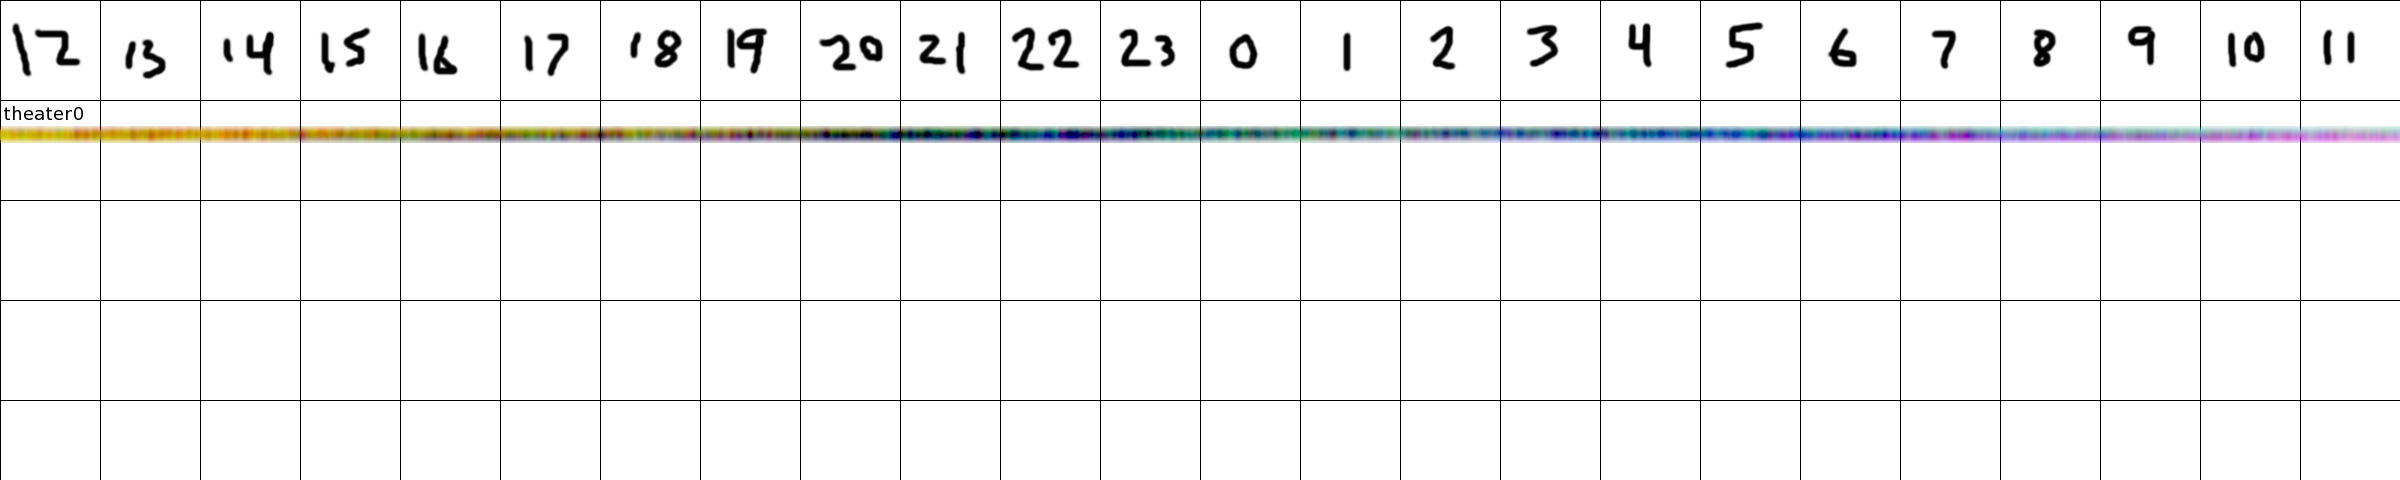
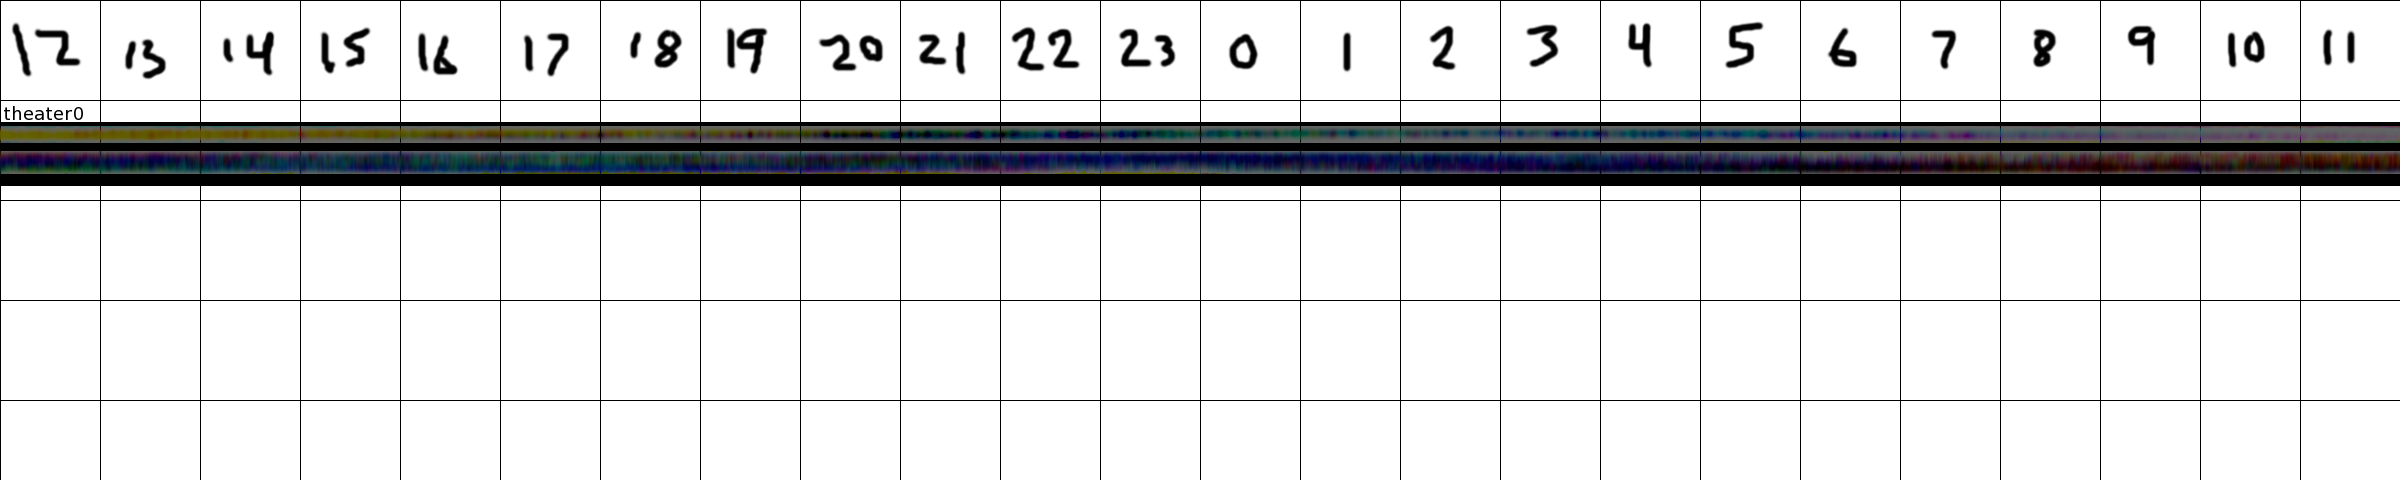
colplay updates, then it was hacked up to do VU meter mode
Ignore-this: 122db2f66f00c0eb505e5c6413c50cc2

darcs-hash:f61d6aee513118c3ebcf6be68ae8b31ae6dc60a7

Changed region(s): [[0.0, 0.25, 1.0, 0.4062]]

diff --git a/service/colplay/colplay.py b/service/colplay/colplay.py
@@ -14,10 +14,27 @@ import cyclone.web
 from dateutil.tz import tzlocal
 from cyclone.httpclient import fetch
 from webcolors import rgb_to_hex
+from influxdb import InfluxDBClient
 
-logging.basicConfig(level=logging.DEBUG)
+influx = InfluxDBClient('bang', 9060, 'root', 'root', 'main')
+
+def currentAudio(location='brace'):
+    t = time.time()
+    row = list(influx.query("""SELECT mean(value) FROM audioLevel WHERE "location" = '%s' AND time > %ds""" % (location, t - 30)))[0][0]
+    log.debug("query took %.03fms", 1000 * (time.time() - t))
+    base = {'brace': .020,
+            'living': .03,
+    }[location]
+    high = {
+        'brace': .1,
+        'living': .3,
+        }[location]
+    return max(0.0, min(1.0, (row['mean'] - base) / high))
+
+
+logging.basicConfig(level=logging.INFO)
 log = logging.getLogger()
-logging.getLogger('restkit.client').setLevel(logging.WARN)
+logging.getLogger('requests.packages.urllib3.connectionpool').setLevel(logging.WARN)
 
 class Img(object):
     def __init__(self, filename):
@@ -37,19 +54,43 @@ class Img(object):
         if os.path.getmtime(self.filename) > self.mtime:
             self.reread()
         return [v * 4 for v in self.img.getpixel((x, y))[:3]]
+
+theaterUrl = 'http://10.1.0.1:9059/output?p=http://projects.bigasterisk.com/room/color&s=http://bigasterisk.com/homeauto/board0/'
         
 lightResource = {
-    'theater0': 'http://bang:9059/output?s=http://bigasterisk.com/homeauto/board0/rgb_right_top_2&p=http://projects.bigasterisk.com/room/color',
+    'theater_left_top_0': theaterUrl + 'rgb_left_top_0',
+    'theater_left_top_1': theaterUrl + 'rgb_left_top_1',
+    'theater_left_top_2': theaterUrl + 'rgb_left_top_2',
+    'theater_right_top_2': theaterUrl + 'rgb_right_top_2',
+    'theater_right_top_1': theaterUrl + 'rgb_right_top_1',
+    'theater_right_top_0': theaterUrl + 'rgb_right_top_0',
+    'theater_left_bottom_0': theaterUrl + 'rgb_left_bottom_0',
+    'theater_left_bottom_1': theaterUrl + 'rgb_left_bottom_1',
+    'theater_left_bottom_2': theaterUrl + 'rgb_left_bottom_2',
+    'theater_right_bottom_2': theaterUrl + 'rgb_right_bottom_2',
+    'theater_right_bottom_1': theaterUrl + 'rgb_right_bottom_1',
+    'theater_right_bottom_0': theaterUrl + 'rgb_right_bottom_0',
     }
 
 lightYPos = {
-    'theater0' : 135,
+    'theater_left_top_0': 130,
+    'theater_left_top_1': 132,
+    'theater_left_top_2': 134,
+    'theater_right_top_2': 135,
+    'theater_right_top_1': 137,
+    'theater_right_top_0': 139,
+    'theater_left_bottom_0': 153,
+    'theater_left_bottom_1': 156,
+    'theater_left_bottom_2': 159,
+    'theater_right_bottom_2': 162,
+    'theater_right_bottom_1': 165,
+    'theater_right_bottom_0': 168,
 }
 
 def hexFromRgb(rgb):
     return rgb_to_hex(tuple([x // 4 for x in rgb])).encode('ascii')
 
-def setColor(lightName, rgb, _req):
+def setColor(lightName, rgb):
     """takes 10-bit r,g,b
 
     returns even if the server is down
@@ -57,33 +98,27 @@ def setColor(lightName, rgb, _req):
     log.debug("setColor(%r,%r)", lightName, rgb)
   
     serv = lightResource[lightName]
-    try:
-        h = hexFromRgb(rgb)
-        log.debug("put %r to %r", h, serv)
-        r = _req(method='PUT', url=serv, body=h,
-             headers={"content-type":"text/plain"})
-        return r
-    except Exception, e:
-        log.warn("Talking to: %r" % serv)
-        log.warn(e)
-        return None
 
-def setColorAsync(lightName, rgb):
-    """
-    uses twisted http, return deferred or sometimes None when there
-    was a warning
-    """
-    def _req(method, url, body, headers):
-        d = fetch(url=url, method=method, postdata=body,
-                  headers=dict((k,[v]) for k,v in headers.items()))
-        @d.addErrback
-        def err(e):
-            log.warn("http client error on %s: %s" % (url, e))
-            raise e
-        return d
-    setColor(lightName, rgb, _req=_req)
+    h = hexFromRgb(rgb)
+    log.debug("put %r to %r", h, serv)
+    t1 = time.time()
+    d = fetch(url=serv, method='PUT', postdata=h,
+              headers={'content-type': ['text/plain']})
+
+    def err(e):
+        log.warn("http client error on %s: %s" % (serv, e))
+        raise e
+    d.addErrback(err)
 
 
+    def done(ret):
+        log.debug('put took %.1fms', 1000 * (time.time() - t1))
+    d.addCallback(done)
+    return d
+
+
+pxPerHour = 100
+    
 class LightState(object):
     def __init__(self):
         self.lastUpdateTime = 0
@@ -101,16 +136,26 @@ class LightState(object):
         try:
             now = datetime.now(tzlocal())
             hr = now.hour + now.minute / 60 + now.second / 3600
-            x = int(((hr - 12) % 24) * 50)
+            x = int(((hr - 12) % 24) * pxPerHour) % 2400
             log.debug("x = %s", x)
 
-            for name, ypos in lightYPos.items():
+            audioLevel = currentAudio('brace')
+            log.debug('level = %s', audioLevel)
+            for i, (name, ypos) in enumerate(sorted(lightYPos.items())):
+
+                if i / len(lightYPos) < audioLevel:
+                    setColor(name, (500, 0, 0))
+                else:
+                    setColor(name, (0, 0, 0))
+                continue
+                
                 if now > self.autosetAfter[name]:
                     c = self.img.getColor(x, ypos)
-                    setColorAsync(name, c)
+                    d = setColor(name, c)
             self.lastUpdateTime = time.time()
         except Exception:
             self.lastError = traceback.format_exc()
+            log.error(self.lastError)
             self.lastErrorTime = time.time()
             
             
@@ -127,7 +172,7 @@ class IndexHandler(cyclone.web.RequestHandler):
             ), indent=4))
 
 lightState = LightState()
-task.LoopingCall(lightState.step).start(1)
+task.LoopingCall(lightState.step).start(3)#3600 / pxPerHour)
 log.info("listening http on 9051")
 reactor.listenTCP(9051, cyclone.web.Application([
     (r'/', IndexHandler),
